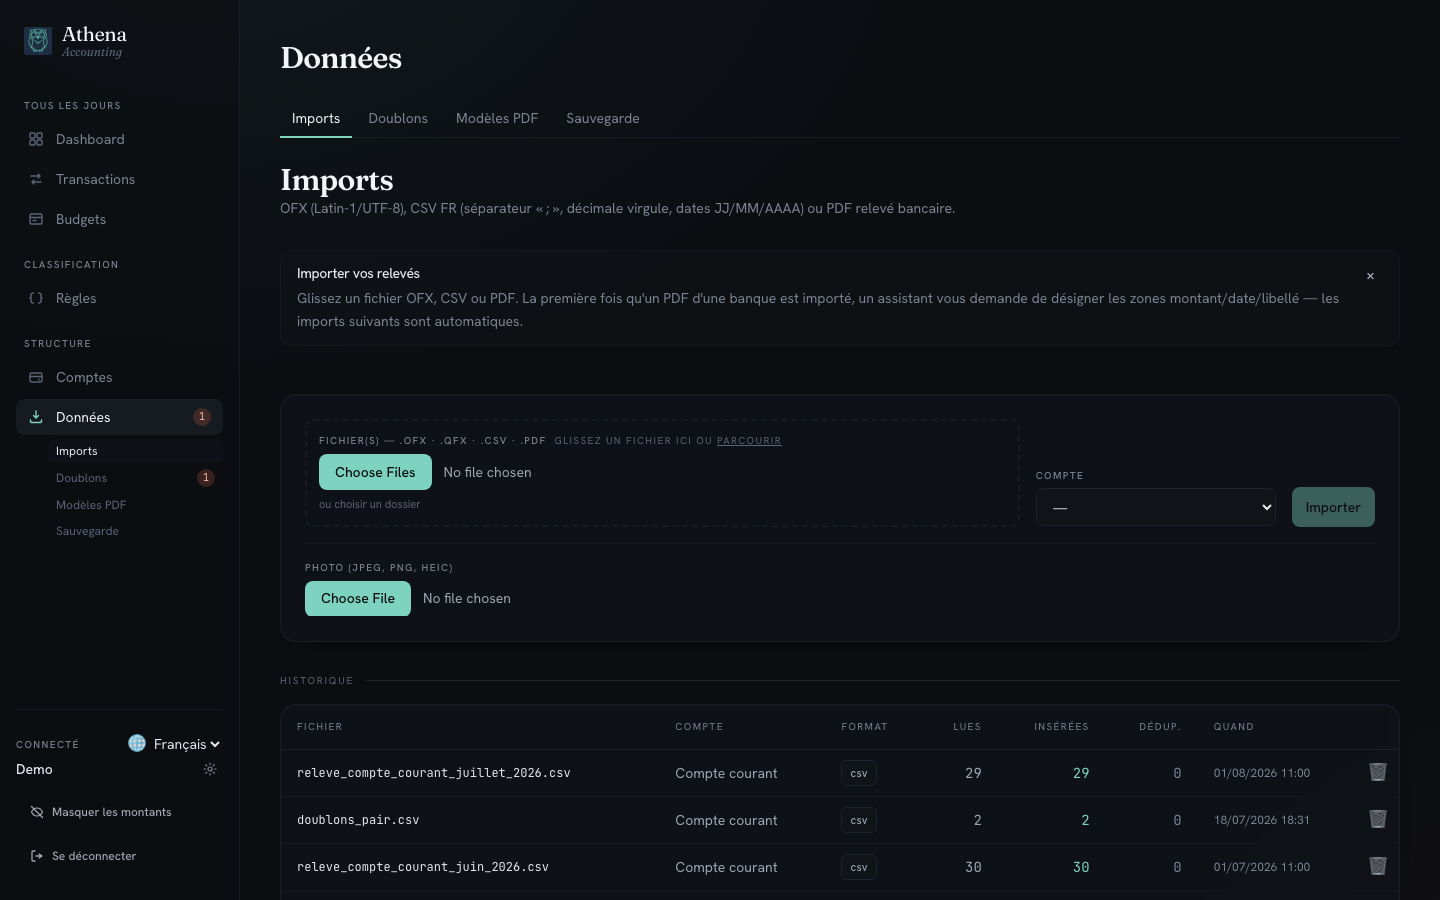
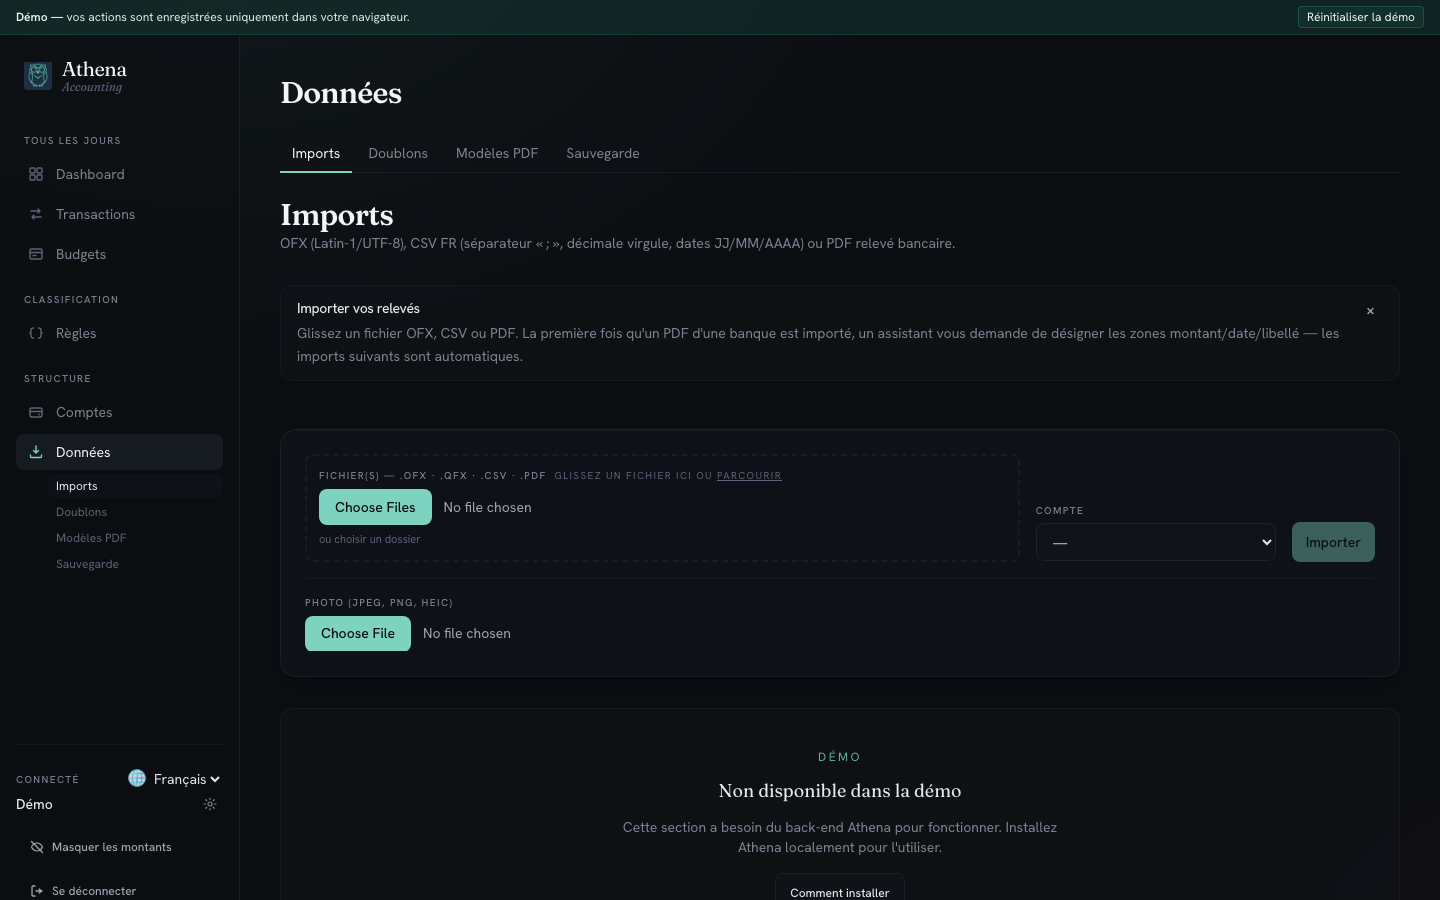
docs(users): document balance checkpoints in the import walkthrough
Section 4 of the walkthrough stopped at "compare the calculated
balance to your PDF" and never mentioned what to do once the numbers
match: anchor the statement's closing balance as a checkpoint. Add
an "Ancrer un point de contrôle" subsection explaining the three
things checkpoints buy you (integrity guard on future imports,
history anchor for accounts not clean since day 1, timestamped paper
trail), plus a mention of the diamond markers that surface drift on
the dashboard chart.

Backing screenshot work:
- Add a step to the walkthrough-screenshots Playwright spec that
  expands the checkpoints panel on the first account card and
  captures img/import-04-checkpoints.png.
- Re-run the import spec end-to-end; the three existing PNGs drift
  slightly (font metrics + demo-seed timing), which is expected and
  matches prior re-shoot commits.

diff --git a/frontend/e2e/walkthrough-screenshots.spec.ts b/frontend/e2e/walkthrough-screenshots.spec.ts
@@ -71,6 +71,13 @@ test.describe('walkthrough screenshots', () => {
     await page.waitForLoadState('networkidle');
     await page.waitForTimeout(400);
     await shot(page, 'import-03-comptes-solde');
+
+    // Expand the checkpoints panel on the first account card so the drawer
+    // (year accordion + add-form) is visible for the walkthrough shot.
+    const firstToggle = page.getByRole('button', { name: /Points de contrôle|Checkpoints/i }).first();
+    await firstToggle.click();
+    await page.waitForTimeout(400);
+    await shot(page, 'import-04-checkpoints');
   });
 
   test('categorise-transactions', async ({ page }) => {

diff --git a/docs/users/walkthroughs/import-a-statement.md b/docs/users/walkthroughs/import-a-statement.md
@@ -29,6 +29,22 @@ Rendez-vous sur **Comptes** dans la barre latérale. Chaque compte affiche son s
 
 ![Vérification du solde sur la page Comptes](./img/import-03-comptes-solde.png)
 
+### Ancrer un point de contrôle
+
+Une fois le solde vérifié, transformez-le en **point de contrôle**. Cliquez sur ▸ **Points de contrôle** en bas de la carte du compte pour ouvrir le tiroir chronologique, puis saisissez la date du relevé, le solde constaté et une note optionnelle (« Vérifié depuis le relevé papier », par exemple).
+
+Trois raisons de le faire dès maintenant :
+
+- **Garde-fou d'intégrité.** Chaque futur import est comparé silencieusement à tous les points de contrôle passés. Si un solde recalculé s'écarte de la référence d'un centime, Athena affiche l'écart — c'est le seul moyen fiable de détecter une transaction perdue lors d'un import, ou un doublon fusionné à tort des mois plus tard.
+- **Ancrage d'historique.** Vos comptes n'ont pas besoin d'être « propres depuis le jour 1 ». Ancrez le solde du jour, importez seulement les derniers mois, et Athena calcule tout ce qui vient après en s'appuyant sur cette ancre.
+- **Trace papier.** Chaque point porte une date et une note libre — les entrées les plus récentes s'ouvrent en tête du tiroir, groupées par année.
+
+![Tiroir des points de contrôle sur la carte du compte](./img/import-04-checkpoints.png)
+
+Sur le **Tableau de bord**, les points de contrôle apparaissent sous forme de losanges le long de la courbe du solde — verts quand le solde calculé correspond, teintés quand un écart est détecté. Passez la souris dessus pour lire l'écart exact entre le solde attendu et le solde calculé à cette date.
+
+![Losange de point de contrôle sur la courbe du solde](./img/reports-01-dashboard.png)
+
 ## Étapes suivantes
 
 Les transactions importées attendent d'être catégorisées. Continuez avec [Catégoriser les transactions](./categorise-transactions.md) pour créer vos premières règles et automatiser le tri.